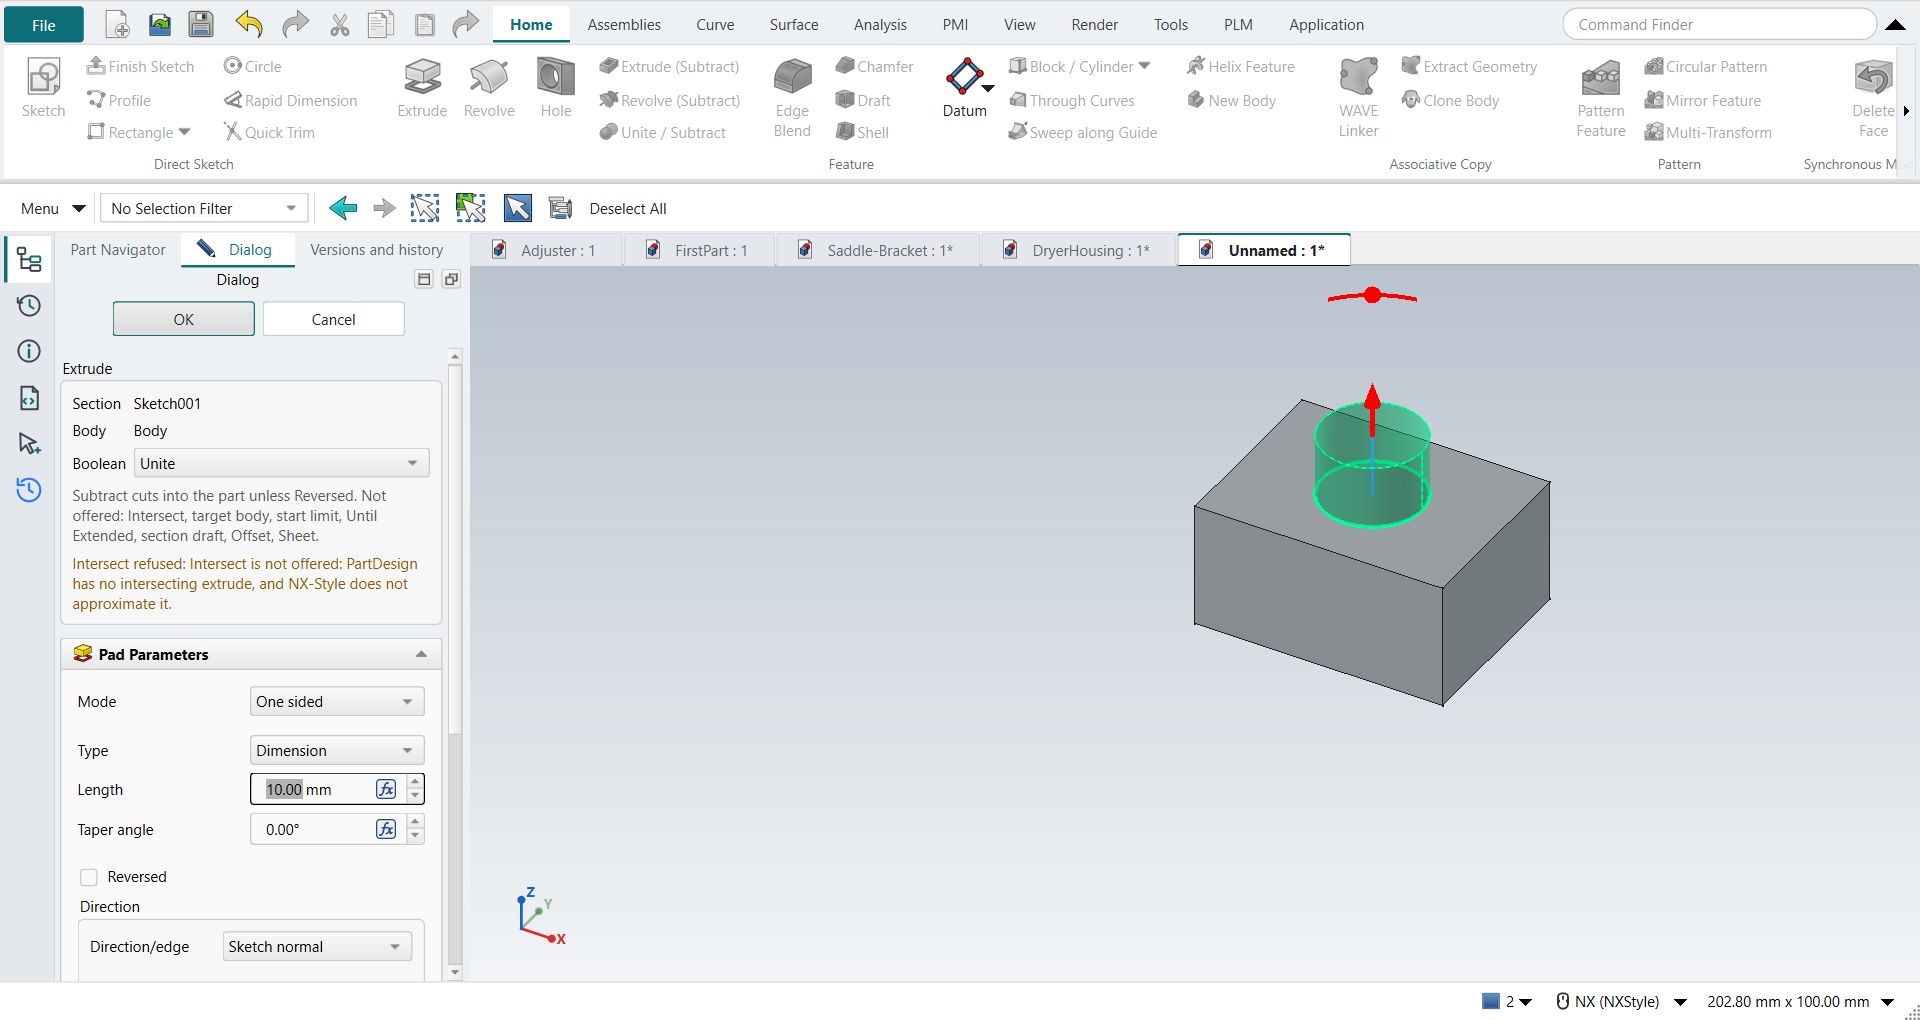
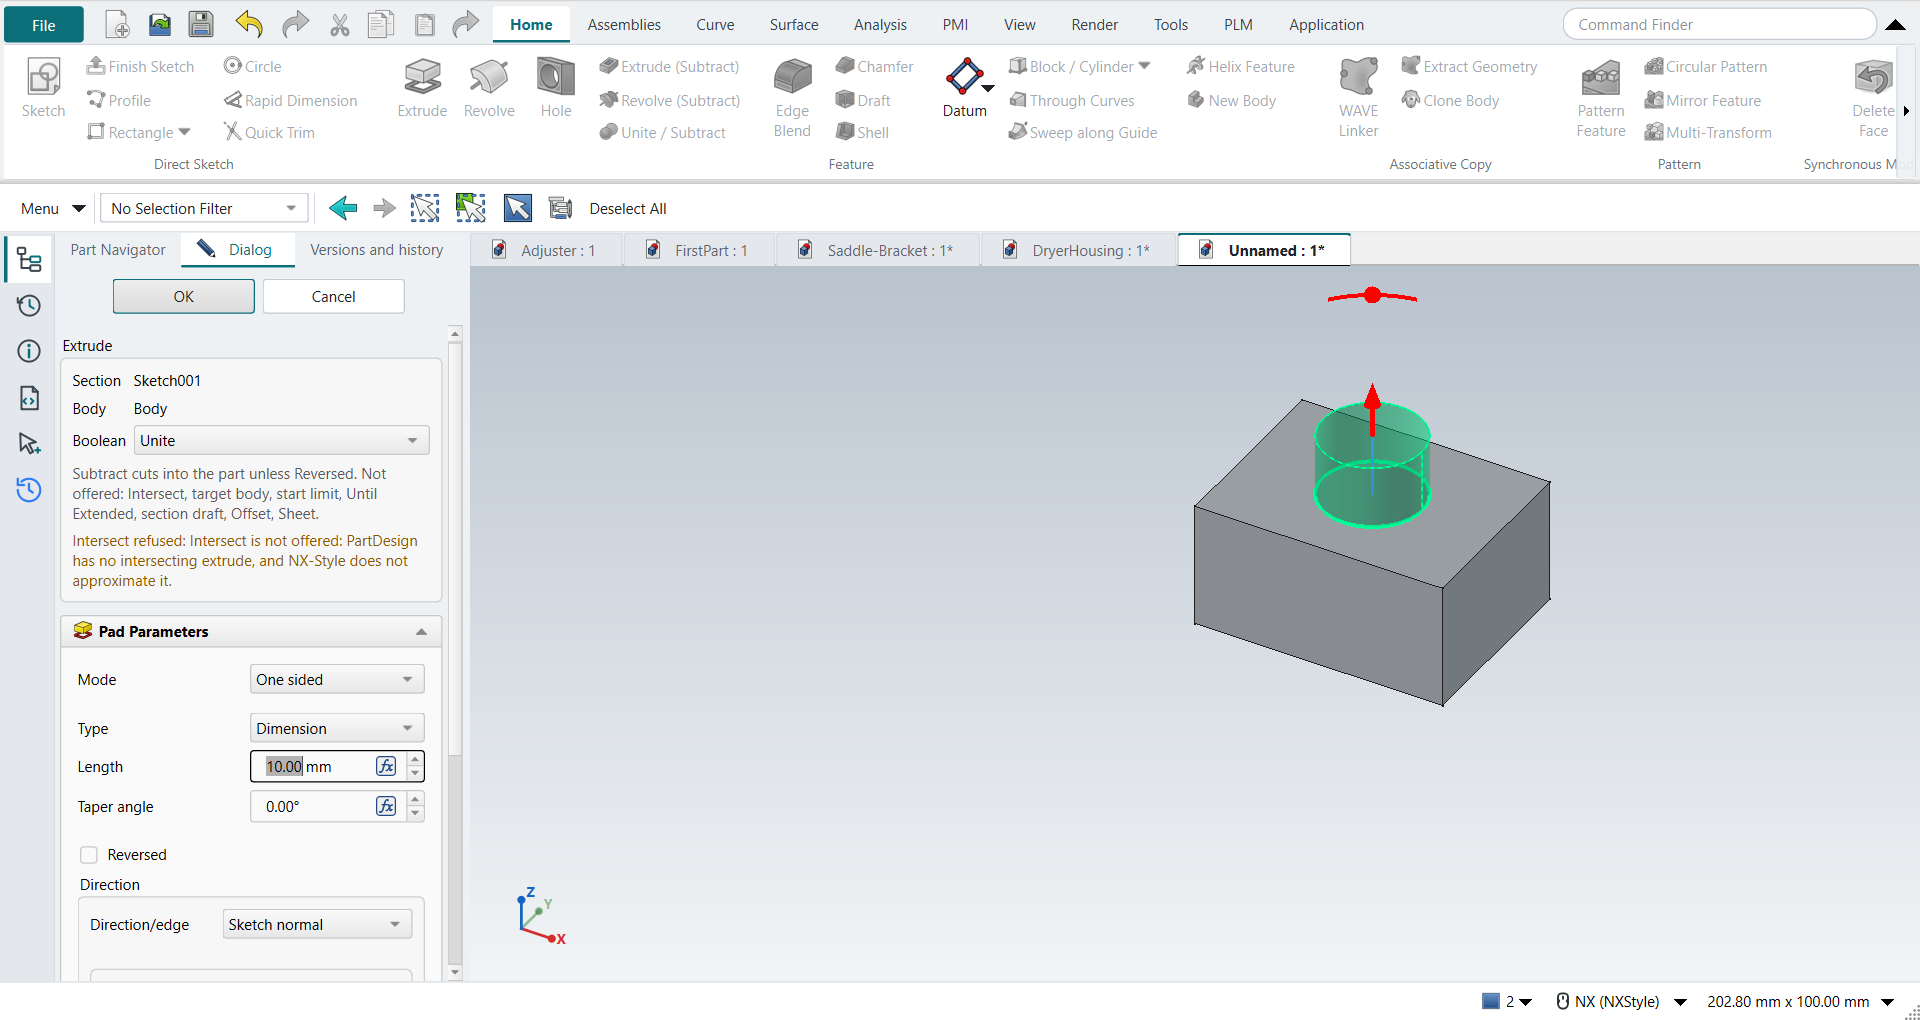
fix(extrude): name the new-body Boolean None, as NX 2212 does
The NX reference release is NX 2212 (decided 2026-10-26). Its Extrude dialog,
as Shih's NX 2212 exercises use it, calls the Boolean that makes a new body
"None", not "New Body". The Boolean list, the panel's messages, the docs and
tutorial AE now use that name; the result is unchanged.

diff --git a/NXStyle/nxstyle/command_core.py b/NXStyle/nxstyle/command_core.py
@@ -67,7 +67,7 @@ def read_back_issue(text, read_mm, decimal=".", tol=1e-6):
 
 
 # ------------------------------------------------------------------ Extrude
-BOOLEANS = [("new_body", "New Body"), ("unite", "Unite"), ("subtract", "Subtract"), ("intersect", "Intersect")]
+BOOLEANS = [("new_body", "None"), ("unite", "Unite"), ("subtract", "Subtract"), ("intersect", "Intersect")]
 LABELS = dict(BOOLEANS)
 
 UNSUPPORTED = {
@@ -77,7 +77,7 @@ UNSUPPORTED = {
 
 # NX Extrude options and what this Extrude does with each (shown in the command panel and in the docs)
 EXTRUDE_OPTIONS = [
-    ("Boolean None / New Body", "supported", "a Pad that starts a Body: in the sketch's Body while it has no "
+    ("Boolean None (a new body)", "supported", "a Pad that starts a Body: in the sketch's Body while it has no "
                                              "solid, otherwise in a new Body through a sub-shape binder"),
     ("Boolean Unite", "supported", "a Pad in the sketch's Body"),
     ("Boolean Subtract", "supported", "a Pocket in the sketch's Body"),
@@ -98,7 +98,7 @@ EXTRUDE_OPTIONS = [
                                                          "to it; delete and extrude again"),
 ]
 
-DIRECTION_NOTE = ("Subtract cuts into the part (against the sketch normal) and Unite or New Body build along "
+DIRECTION_NOTE = ("Subtract cuts into the part (against the sketch normal) and Unite or None build along "
                   "it, unless Reversed is ticked; NX keeps one direction for every Boolean.")
 SHORT_NOTE = ("Subtract cuts into the part unless Reversed. Not offered: Intersect, target body, start limit, "
               "Until Extended, section draft, Offset, Sheet.")
@@ -114,7 +114,7 @@ def options_tooltip():
 
 
 def infer_boolean(requested, has_body, has_solid):
-    """NX's inferred Boolean: Unite onto the part, a New Body when there is nothing to unite with."""
+    """NX's inferred Boolean: Unite onto the part, None (a new body) when there is nothing to unite with."""
     if requested:
         return requested
     return "unite" if has_body and has_solid else "new_body"
@@ -134,7 +134,7 @@ def plan_extrude(mode, has_body, has_solid, body_label="the Body"):
     if not has_body:
         raise CommandError(f"{LABELS[mode]} needs a target body: the sketch is not in a Body")
     if not has_solid:
-        raise CommandError(f"{LABELS[mode]} needs a solid in {body_label}, which has none yet: choose New Body")
+        raise CommandError(f"{LABELS[mode]} needs a solid in {body_label}, which has none yet: choose None for a new body")
     return {"feature": "PartDesign::Pad" if mode == "unite" else "PartDesign::Pocket", "body": "sketch"}
 
 

diff --git a/NXStyle/nxstyle/tutorial_extrude.py b/NXStyle/nxstyle/tutorial_extrude.py
@@ -173,7 +173,7 @@ class ExtrudeTutorials:
         note = self.ae_box().findChild(QtWidgets.QLabel, "nxUnsupported").text() if self.ae_box() else ""
         self.step("Finish Sketch: the Extrude dialog, Boolean inferred None (New Body)",
                   "Ctrl+Q; the NX command box above FreeCAD's Pad panel",
-                  SAME if shown == "New Body" and ok and inter_off and "Intersect" in note else FAIL,
+                  SAME if shown == "None" and ok and inter_off and "Intersect" in note else FAIL,
                   f"Boolean '{shown}' (list enabled {enabled}); Intersect offered but disabled {inter_off}; status "
                   f"'{status}'; OK enabled {ok}; not supported shown: {'Intersect' in note and 'Offset' in note}")
         self.shot("AE1_new_body_panel.png")
@@ -360,10 +360,10 @@ class ExtrudeTutorials:
                   SAME if shown == "Unite" and ok is False and still else FAIL,
                   f"error shown: '{status}'; OK enabled {ok}; dialog still open after MB2 {still} (NX: 'tool body "
                   "does not intersect the target')")
-        picked = self.set_combo("nxBoolean", "New Body")
+        picked = self.set_combo("nxBoolean", "None")
         ready = self.ae_wait_box("ae_cyl_dialog: New Body", lambda: len(self.ae_bodies()) == 2)
         shown2, _, status2, ok2 = self.ae_panel()
-        self.step("Boolean New Body", f"'{picked}' in the Boolean list", SAME if ready and shown2 == "New Body" and ok2
+        self.step("Boolean None (a new body)", f"'{picked}' in the Boolean list", SAME if ready and shown2 == "None" and ok2
                   else FAIL, f"bodies {[b.Label for b in self.ae_bodies()]}; status '{status2}'; OK {ok2}")
         from .tutorial import qtest
         qtest().qWait(800)              # the rebuilt panel lays itself out after a Boolean change
@@ -384,7 +384,7 @@ class ExtrudeTutorials:
             tf.setCurrentIndex(0)
         active = self.view().getActiveObject("pdbody")
         work = active is not None and bodies and active.Name == bodies[0].Name
-        self.step("End = Value 15, Boolean New Body, OK", f"'{field}' = 15 mm, MB2 = OK",
+        self.step("End = Value 15, Boolean None (a new body), OK", f"'{field}' = 15 mm, MB2 = OK",
                   SAME if same and part and one and work and after[1:] == ("edge", True) else FAIL,
                   f"new body {new.Label if new else None}: {how}; the first body unchanged: {how_part}; {steps}; "
                   f"made of {[t.split('::')[-1] for t in binder if 'Origin' not in t]}; active Body still "

diff --git a/NXStyle/nxstyle/controller.py b/NXStyle/nxstyle/controller.py
@@ -279,7 +279,8 @@ class CommandBox(QtWidgets.QGroupBox):
         elif s.warnings:
             kind, text = "warning", "; ".join(s.warnings)
         else:
-            kind, text = "ok", f"{core.LABELS.get(s.mode, s.mode)}: ready (OK or MB2 commits one undo step)"
+            label = "None (a new body)" if s.mode == "new_body" else core.LABELS.get(s.mode, s.mode)
+            kind, text = "ok", f"{label}: ready (OK or MB2 commits one undo step)"
         self.status.setText(text)
         self.status.setStyleSheet(STYLE[kind])
 
@@ -682,7 +683,7 @@ class Controller:
         elif s.mode in ("unite", "subtract"):
             solids = _solids(f)
             if s.mode == "unite" and len(solids) > s.base_solids:
-                error = "Unite would leave a separate solid: the extrusion does not touch the part (choose New Body)"
+                error = "Unite would leave a separate solid: the extrusion does not touch the part (choose None for a new body)"
             else:
                 w = core.result_warning(s.mode, s.base_volume, _volume(f))
                 if w:

diff --git a/launch_nx.py b/launch_nx.py
@@ -690,7 +690,7 @@ def main(argv: list[str] | None = None) -> int:
                          "AB measurement capability (TUR, guard bands, gauge studies), "
                          "AC title block and revision block from the release (runs T and V first), "
                          "AD a laser-cut tray with tabs and slots, AE one Extrude through the command controller: "
-                         "New Body, Unite, Subtract, edit, cancel, undo, reopen)")
+                         "None (new body), Unite, Subtract, edit, cancel, undo, reopen)")
     ap.add_argument("--keep-open", action="store_true", help="with --smoke-test: leave FreeCAD open afterwards")
     ap.add_argument("--require-all", action="store_true",
                     help="with --smoke-test: a check skipped because this FreeCAD lacks what it needs (no pythonocc, "

diff --git a/NXStyle/nxstyle/commands.py b/NXStyle/nxstyle/commands.py
@@ -697,7 +697,7 @@ def register(apps):
         "NXStyle_MeasureBodies": MeasureBodies(),
         "NXStyle_TouchMode": TouchMode(),
         "NXStyle_Extrude": ControlledFeature("Extrude", None, "Extrude",
-                                             "Extrude a sketch: New Body, Unite or Subtract; with nothing selected, "
+                                             "Extrude a sketch: Boolean None (a new body), Unite or Subtract; with nothing selected, "
                                              "sketch first (NX: X)", "PartDesign_Pad"),
         "NXStyle_ExtrudeSubtract": ControlledFeature("Extrude", "subtract", "Extrude (Subtract)",
                                                      "Extrude a sketch with Boolean Subtract", "PartDesign_Pocket"),

diff --git a/tests/test_command_core.py b/tests/test_command_core.py
@@ -65,7 +65,7 @@ class ExtrudeBoolean(unittest.TestCase):
     def test_refusals_say_why(self):
         with self.assertRaisesRegex(cc.CommandError, "Intersect"):
             cc.plan_extrude("intersect", True, True)
-        with self.assertRaisesRegex(cc.CommandError, "Body001.*New Body"):
+        with self.assertRaisesRegex(cc.CommandError, "Body001.*choose None"):
             cc.plan_extrude("unite", True, False, "Body001")
         with self.assertRaisesRegex(cc.CommandError, "not in a Body"):
             cc.plan_extrude("subtract", False, False)

diff --git a/docs/TUTORIAL-REPLAY.md b/docs/TUTORIAL-REPLAY.md
@@ -68,7 +68,7 @@ Dimension values are applied through FreeCAD's API, the equivalent of typing the
 | B10 | Finish Sketch returns to Revolve; axis = Z, 0..360 deg | Ctrl+Q | **same** | dialog open True; default axis ['V_Axis'] (sketch V axis = Z) |
 | B11 | Boolean Unite, OK | MB2 = OK | **same** | volume 95556.8 mm^3, expected 95556.8; features in one Body unite automatically |
 | B12 | Hold MB2 and drag to rotate | MB2 drag | **same** |  |
-| B13 | F8 snaps to the nearest standard view | F8 key | **same** | view Vector (-0.000180843286216259, 0.9999647736549377, -0.008388462476432323) |
+| B13 | F8 snaps to the nearest standard view | F8 key | **same** | view Vector (0.0, 1.0, 0.0) |
 | B14 | The finished part is shown in the graphics window | render of the graphics window | **same** | 11.3% of the view shows the part (an occupancy check: something is drawn; the shape itself is checked by its geometry) |
 | B15 | Save (Ctrl+S) | file name given once by script (the system file dialog is not driven); a change, then the Ctrl+S key | **same** | FirstPart.FCStd rewritten by Ctrl+S (1.1 s later), part unmodified afterwards (modified before the key: True); FreeCAD format, not .prt |
 | C1 | File > New (Ctrl+N), Model template | Ctrl+N | **same** |  |
@@ -470,7 +470,7 @@ Dimension values are applied through FreeCAD's API, the equivalent of typing the
 | AE1 | File > New (Ctrl+N), Model template | Ctrl+N | **same** | new document ['Unnamed3'] |
 | AE2 | Extrude (X) with nothing selected, pick the XC-YC plane | X key, plane row + MB2 | **same** | picked XY-plane (Base plane); command controller started: True |
 | AE3 | Rectangle (R) 40 x 30 from the origin, MB2 | R key + 2 MB1 clicks + MB2; sizes applied | **same** | tool True; 4 curves; ended True |
-| AE4 | Finish Sketch: the Extrude dialog, Boolean inferred None (New Body) | Ctrl+Q; the NX command box above FreeCAD's Pad panel | **same** | Boolean 'New Body' (list enabled True); Intersect offered but disabled True; status 'New Body: ready (OK or MB2 commits one undo step)'; OK enabled True; not supported shown: True |
+| AE4 | Finish Sketch: the Extrude dialog, Boolean inferred None (New Body) | Ctrl+Q; the NX command box above FreeCAD's Pad panel | **same** | Boolean 'None' (list enabled True); Intersect offered but disabled True; status 'None (a new body): ready (OK or MB2 commits one undo step)'; OK enabled True; not supported shown: True |
 | AE5 | End = Value 20, OK | 'lengthEdit' = 20 mm, MB2 = OK | **same** | same solid as the reference: 0 mm³ differ, box within 0 mm, 6 faces (6 in the reference); controller: committed new_body, undo step 'Extrude', 1 step(s) added |
 | AE6 | Top face selected, Extrude (X): circle 8 mm radius | select face + X; O key + 2 MB1 clicks + MB2; size applied | **same** | sketch on [(<PartDesign::Pad>, ('Face6',))] |
 | AE7 | Boolean inferred Unite (the part has a solid) | the NX command box | **same** | Boolean 'Unite'; status 'Unite: ready (OK or MB2 commits one undo step)'; OK True |
@@ -481,10 +481,10 @@ Dimension values are applied through FreeCAD's API, the equivalent of typing the
 | AE12 | End = Value 5 into the part, OK | 'lengthEdit' = 5 mm, MB2 = OK | **same** | same solid as the reference: 0 mm³ differ, box within 0 mm, 13 faces (13 in the reference); controller: committed subtract, undo step 'Extrude', 1 step(s) added; Subtract cuts against the sketch normal unless Reversed (NX keeps the direction and you reverse it) |
 | AE13 | Extrude (X), pick the XC-ZC plane (Type Filter set to Edge before) | X key, plane row + MB2 | **same** | picked XZ-plane (Base plane); Type Filter during the command: 'Edge', gate None, enabled False |
 | AE14 | Circle 6 mm radius, 100 mm from the part | O key + 2 MB1 clicks + MB2; size applied | **same** | tool True; 1 curves |
-| AE15 | Inferred Unite with a section that misses the part; MB2 | MB2 = OK | **same** | error shown: 'Unite would leave a separate solid: the extrusion does not touch the part (choose New Body)'; OK enabled False; dialog still open after MB2 True (NX: 'tool body does not intersect the target') |
-| AE16 | Boolean New Body | 'New Body' in the Boolean list | **same** | bodies ['Body', 'Body001']; status 'New Body: ready (OK or MB2 commits one undo step)'; OK True |
-| AE17 | End = Value 15, Boolean New Body, OK | 'lengthEdit' = 15 mm, MB2 = OK | **same** | new body Body001: same solid as the reference: 0 mm³ differ, box within 0 mm, 3 faces (3 in the reference); the first body unchanged: same solid as the reference: 0 mm³ differ, box within 0 mm, 13 faces (13 in the reference); controller: committed new_body, undo step 'Extrude', 1 step(s) added; made of ['SubShapeBinder', 'Pad']; active Body still Body; Type Filter afterwards 'Edge', gate edge, enabled True |
-| AE18 | MB3 on the first Extrude in the Part Navigator > Edit Parameters | MB3 menu entry | **same** | menu entries ['Edit Pad', 'Set Face Colors', 'Suppressed', 'Set Tip', 'Move Object To…', 'Move Feature After…', 'Toggle Freeze', 'Placement', 'Edit Parameters', 'Toggle Visibility', 'Show Selection', 'Hide Selection']; panel open True; Boolean 'New Body' locked True (changing it would replace the feature) |
+| AE15 | Inferred Unite with a section that misses the part; MB2 | MB2 = OK | **same** | error shown: 'Unite would leave a separate solid: the extrusion does not touch the part (choose None for a new body)'; OK enabled False; dialog still open after MB2 True (NX: 'tool body does not intersect the target') |
+| AE16 | Boolean None (a new body) | 'None' in the Boolean list | **same** | bodies ['Body', 'Body001']; status 'None (a new body): ready (OK or MB2 commits one undo step)'; OK True |
+| AE17 | End = Value 15, Boolean None (a new body), OK | 'lengthEdit' = 15 mm, MB2 = OK | **same** | new body Body001: same solid as the reference: 0 mm³ differ, box within 0 mm, 3 faces (3 in the reference); the first body unchanged: same solid as the reference: 0 mm³ differ, box within 0 mm, 13 faces (13 in the reference); controller: committed new_body, undo step 'Extrude', 1 step(s) added; made of ['SubShapeBinder', 'Pad']; active Body still Body; Type Filter afterwards 'Edge', gate edge, enabled True |
+| AE18 | MB3 on the first Extrude in the Part Navigator > Edit Parameters | MB3 menu entry | **same** | menu entries ['Edit Pad', 'Set Face Colors', 'Suppressed', 'Set Tip', 'Move Object To…', 'Move Feature After…', 'Toggle Freeze', 'Placement', 'Edit Parameters', 'Toggle Visibility', 'Show Selection', 'Hide Selection']; panel open True; Boolean 'None' locked True (changing it would replace the feature) |
 | AE19 | Preview 35 mm, then Cancel | 'lengthEdit' = 35 mm, Cancel button | **same** | preview showed Length 35 mm (top at 35 mm); after Cancel Length 20 mm, same solid as the reference: 0 mm³ differ, box within 0 mm, 13 faces (13 in the reference); undo steps added 0; objects left to recompute [] |
 | AE20 | Design change: Edit Parameters, End 20 -> 25, OK | ribbon 'Home › Edit Feature > Edit Parameters' (panel True), 'lengthEdit' = 25 mm, MB2 = OK | **same** | same solid as the reference: 0 mm³ differ, box within 0 mm, 13 faces (13 in the reference); the boss and the pocket follow the top face; the separate body unchanged True; controller: committed new_body, undo step 'Edit Extrude', 1 step(s) added |
 | AE21 | Undo (Ctrl+Z) twice, Redo (Ctrl+Y) twice | Ctrl+Z, Ctrl+Z, Ctrl+Y, Ctrl+Y | **same** | first undo takes back the edit (same solid as the reference: 0 mm³ differ, box within 0 mm, 13 faces (13 in the reference)); the second the whole New Body extrude (1 body left, binders left []); redo restores both (same solid as the reference: 0 mm³ differ, box within 0 mm, 13 faces (13 in the reference); cylinder True) |
